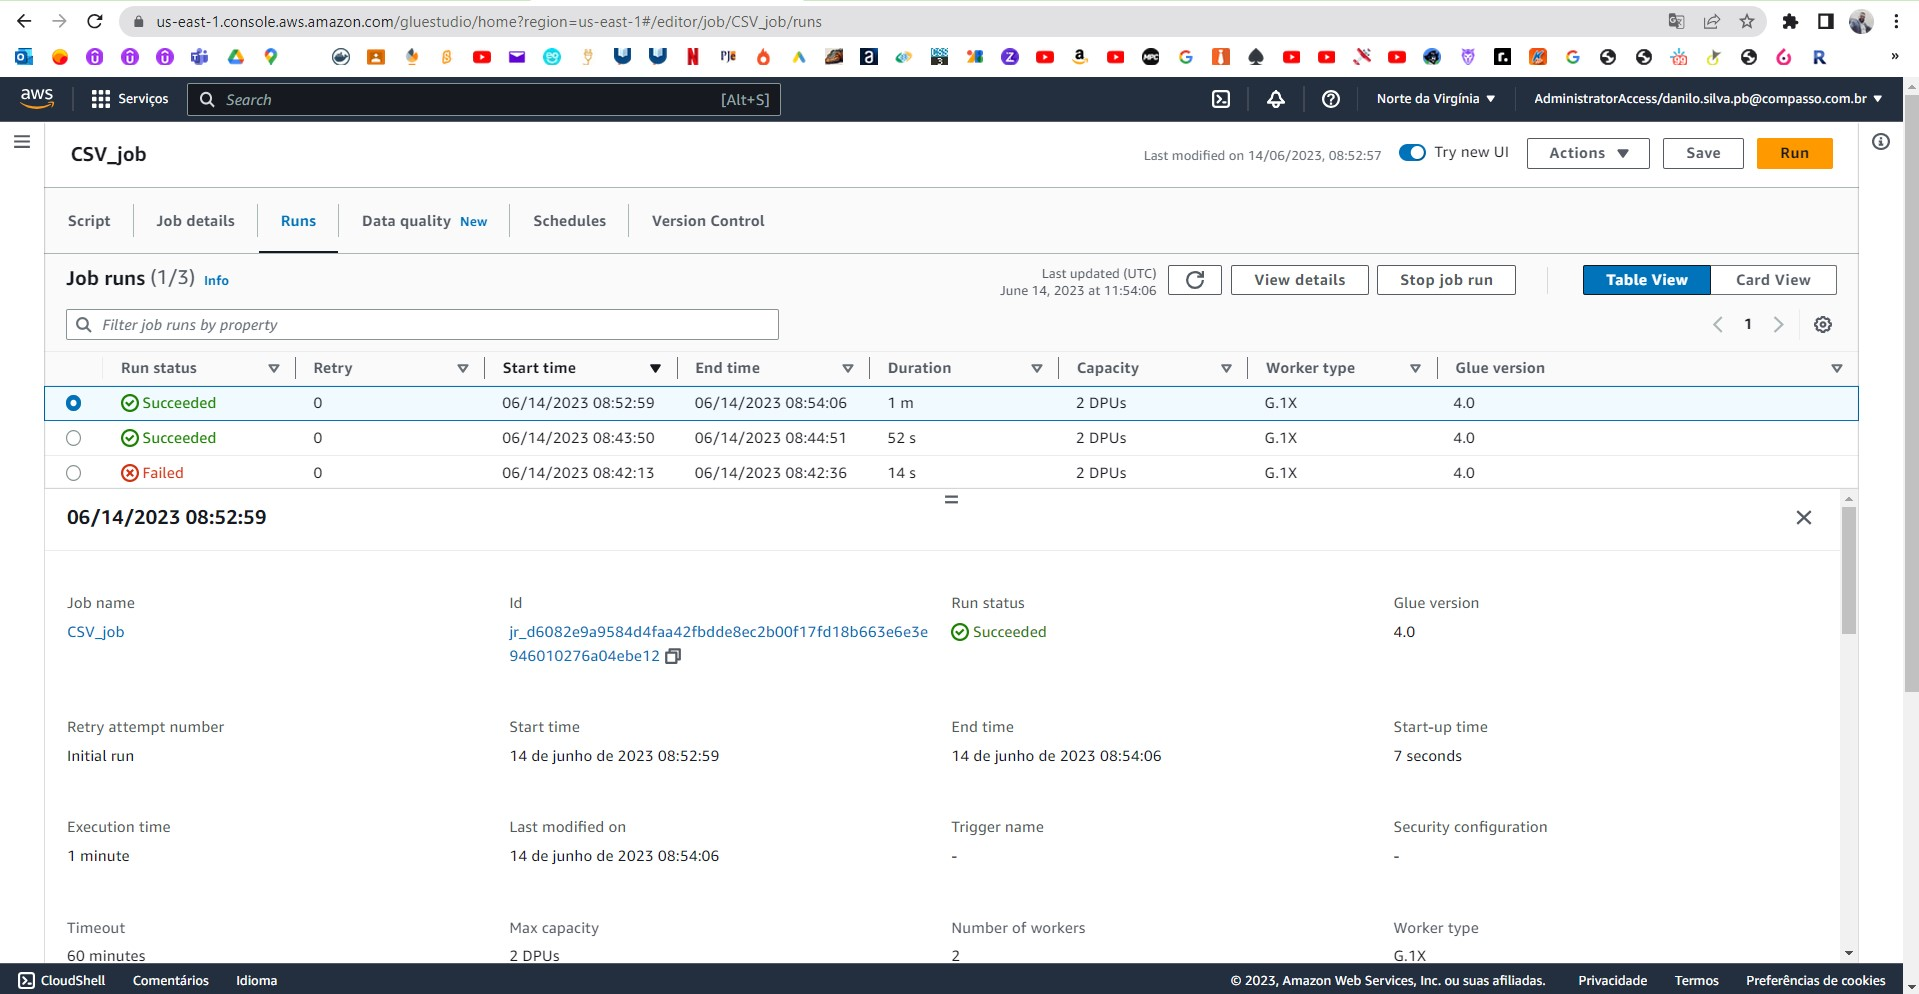
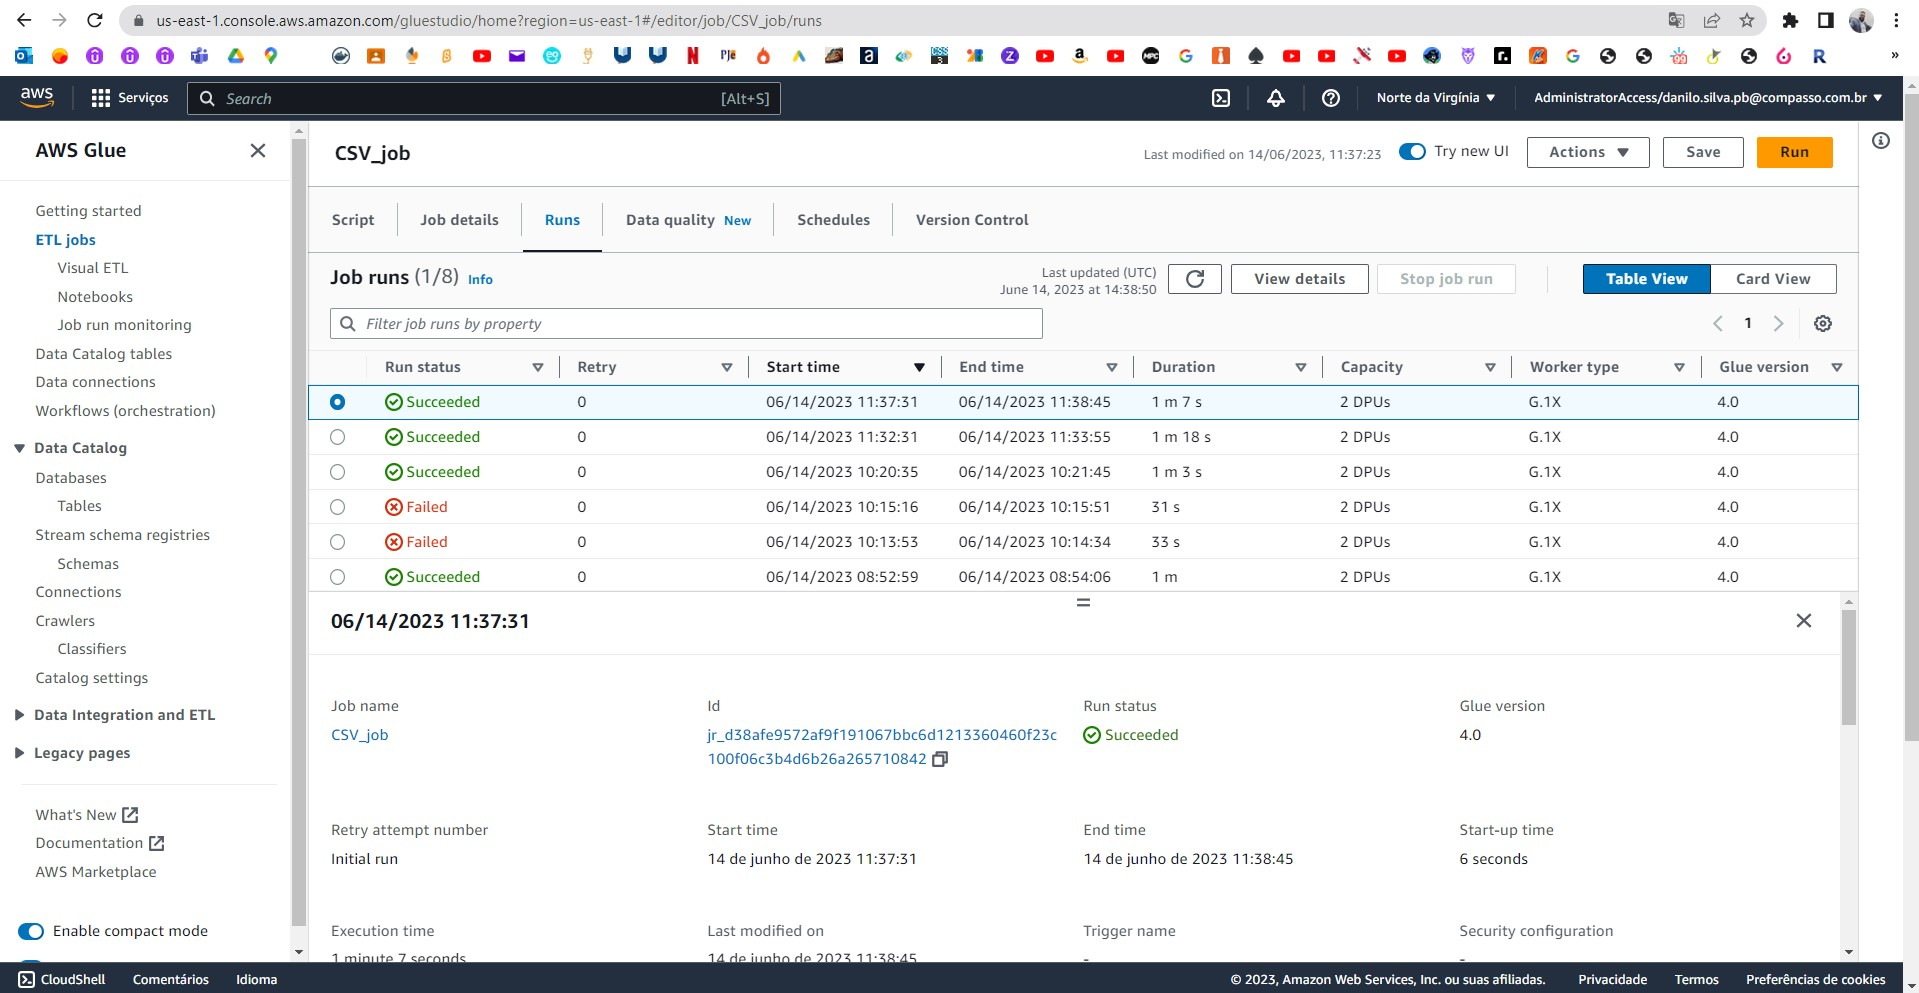
Atualizações necessárias

diff --git a/9. Sprint 9/Tarefa 3 - Desafio Parte 3 - Processamento da Trusted/CSV_job.py b/9. Sprint 9/Tarefa 3 - Desafio Parte 3 - Processamento da Trusted/CSV_job.py
@@ -3,8 +3,16 @@ from pyspark.sql import SparkSession
 # Criação de uma sessão Spark
 spark = SparkSession.builder.appName("job-dados-csv").getOrCreate()
 
-# Leitura dos dados CSV da zona Raw
-dados_csv_brutos = spark.read.format("csv").option("header", "true").load("s3://data-lake-danilo/Raw/Local/CSV/Movies/2023/05/19/movies.csv")
+# Leitura dos dados CSV de filmes da zona Raw, usando "|" como separador de colunas
+dados_csv_filmes_brutos = spark.read.format("csv").option("header", "true").option("delimiter", "|").load("s3://data-lake-danilo/Raw/Local/CSV/Movies/2023/05/19/movies.csv")
 
-# Gravação dos dados CSV na zona Trusted no formato Parquet
-dados_csv_brutos.write.format("parquet").mode("overwrite").save("s3://data-lake-danilo/Trusted/Movies/")
+# Gravação dos dados CSV de filmes na zona Trusted no formato Parquet.
+# Usando coalesce(1) para garantir que todos os dados sejam escritos em um único arquivo Parquet.
+dados_csv_filmes_brutos.coalesce(1).write.format("parquet").mode("overwrite").save("s3://data-lake-danilo/Trusted/Movies/")
+
+# Leitura dos dados CSV de séries da zona Raw, usando "|" como separador de colunas
+dados_csv_series_brutos = spark.read.format("csv").option("header", "true").option("delimiter", "|").load("s3://data-lake-danilo/Raw/Local/CSV/Series/2023/05/19/series.csv")
+
+# Gravação dos dados CSV de séries na zona Trusted no formato Parquet.
+# Usando coalesce(1) para garantir que todos os dados sejam escritos em um único arquivo Parquet.
+dados_csv_series_brutos.coalesce(1).write.format("parquet").mode("overwrite").save("s3://data-lake-danilo/Trusted/Series/")

diff --git a/9. Sprint 9/Tarefa 3 - Desafio Parte 3 - Processamento da Trusted/TMDB_job.py b/9. Sprint 9/Tarefa 3 - Desafio Parte 3 - Processamento da Trusted/TMDB_job.py
@@ -8,4 +8,4 @@ dados_json_brutos = spark.read.format("json").load("s3://data-lake-danilo/Raw/TM
 
 # Gravação dos dados JSON na zona Trusted no formato Parquet.
 # Usando coalesce(1) para garantir que todos os dados sejam escritos em um único arquivo Parquet.
-dados_json_brutos.coalesce(1).write.format("parquet").mode("overwrite").save("s3://data-lake-danilo/Trusted/TMDB/")
+dados_json_brutos.coalesce(1).write.format("parquet").mode("overwrite").save("s3://data-lake-danilo/Trusted/TMDB/2023/06/14/")

diff --git a/8. Sprint 8/Tarefa 2 -Desafio Parte 2 - Ingestão de dados do Twitter eou TMBD/Lambda Code/lambda_function.py b/8. Sprint 8/Tarefa 2 -Desafio Parte 2 - Ingestão de dados do Twitter eou TMBD/Lambda Code/lambda_function.py
@@ -1,4 +1,3 @@
-# Importação de pacotes necessários
 import os
 import time
 import json
@@ -13,7 +12,7 @@ def obter_dados_filme(filme_id, api_key):
     response = requests.get(url)
     data = response.json()
     if response.status_code == 200:
-        return {filme_id: {'popularidade': data['popularity'], 'receita': data['revenue']}}
+        return {"id": filme_id, "popularidade": data['popularity'], "receita": data['revenue']}
     return None
 
 def lambda_handler(event, context):

diff --git a/9. Sprint 9/Tarefa 3 - Desafio Parte 3 - Processamento da Trusted/README.md b/9. Sprint 9/Tarefa 3 - Desafio Parte 3 - Processamento da Trusted/README.md
@@ -6,13 +6,17 @@ Este documento descreve as tarefas realizadas para processar a camada Trusted do
 
 ## Job 1: Processamento dos Dados CSV
 
-O primeiro job foi responsável pelo processamento dos dados CSV. Os dados foram lidos do seguinte local na camada Raw:
+O primeiro job foi responsável pelo processamento dos dados CSV. Os dados foram lidos dos seguintes locais na camada Raw:
 
 `s3://data-lake-danilo/Raw/Local/CSV/Movies/2023/05/19/movies.csv`
 
-Após o processamento, os dados foram gravados na camada Trusted no formato Parquet, em um único arquivo, usando o seguinte caminho:
+`s3://data-lake-danilo/Raw/Local/CSV/Series/2023/05/19/series.csv`
 
-`s3://data-lake-danilo/Trusted/Movies/`
+Após o processamento, os dados foram gravados na camada Trusted no formato Parquet, em um único arquivo para cada pasta, usando os seguintes caminhos:
+
+`s3://data-lake-danilo/Trusted/CSV/Series/`
+
+`s3://data-lake-danilo/Trusted/CSV/Movies/`
 
 <p align="center"><img src="assets\Print_1.jpg"></p>
 
@@ -45,6 +49,10 @@ Ambos os jobs foram configurados para utilizar o worker type G.1X e 2 workers. O
 <p align="center"><img src="assets\Print_10.jpg"></p>
 
 <p align="center"><img src="assets\Print_11.jpg"></p>
+
+<p align="center"><img src="assets\Print_12.jpg"></p>
+
+<p align="center"><img src="assets\Print_13.jpg"></p>
 
 Os jobs foram monitorados para garantir que eles foram executados corretamente e foram finalizados após a conclusão para evitar custos desnecessários.
 
